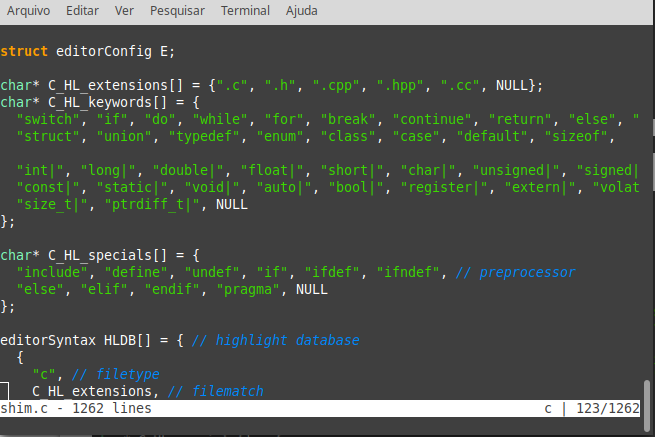
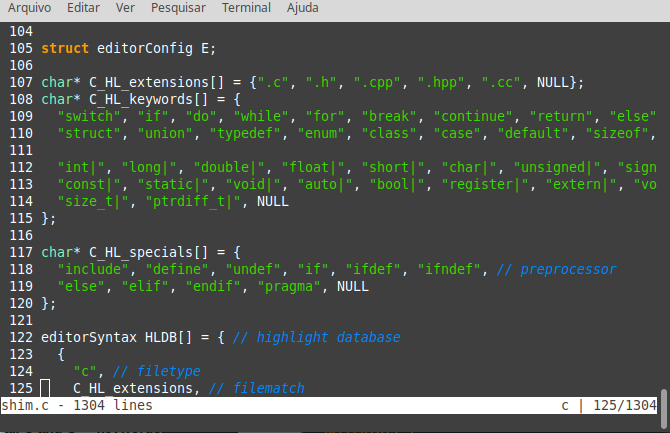
Add line numbers

Changed region(s): [[0.0, 0.0, 1.0, 1.0]]

diff --git a/shim.c b/shim.c
@@ -92,6 +92,7 @@ struct editorConfig {
   int screenrows;     // screen height
   int screencols;     // screen width
   int numrows;        // number of rows in the source file
+  int row_num_offset;
   E_ROW* row;
   int dirty;          // tell if a text buffer has been modified
   char* filename;
@@ -539,6 +540,16 @@ void editorSelectSyntaxHighlight() {
   }
 }
 
+int ndigits(int num) {
+  int d = 0;
+  
+  do {
+    ++d;
+  } while(num /= 10);
+  
+  return d; 
+}
+
 int editorRowCxtoRx(E_ROW* row, int cx) {
   // convert a chars index into a render index
   int j, rx = 0;
@@ -596,6 +607,12 @@ void editorUpdateRow(E_ROW* row) {
   editorUpdateSyntax(row);
 }
 
+void editorUpdateRowOffset() {
+  //E.screencols += (E.row_num_offset + 1);
+  E.row_num_offset = ndigits(E.numrows);
+  //E.screencols -= (E.row_num_offset + 1);
+}
+
 void editorInsertRow(int at, char* s, size_t len) { 
   if(at < 0 || at > E.numrows) return;
 
@@ -617,6 +634,7 @@ void editorInsertRow(int at, char* s, size_t len) {
   editorUpdateRow(&E.row[at]);
 
   E.numrows++;
+  editorUpdateRowOffset();
   E.dirty++;
 }
 
@@ -633,6 +651,7 @@ void editorDelRow(int at) {
   memmove(&E.row[at], &E.row[at + 1], sizeof(E_ROW) * (E.numrows - at - 1));
   for(int j = at; j < E.numrows - 1; j++) E.row[j].idx--;
   E.numrows--;
+  editorUpdateRowOffset();
   E.dirty++;
 }
 
@@ -750,7 +769,8 @@ void editorOpen(const char* filename) {
       linelen--;
     }
     editorInsertRow(E.numrows, line, linelen);
-  } 
+  }
+  editorUpdateRowOffset();
   free(line); fclose(fp);
   E.dirty = 0;
 }
@@ -1054,6 +1074,9 @@ void editorScroll() {
   if(E.render_x >= E.coloff + E.screencols) {
     E.coloff = E.render_x - E.screencols + 1;
   }
+  /*if(E.render_x >= E.coloff - E.row_num_offset + E.screencols) {
+    E.coloff = E.render_x - E.screencols + E.row_num_offset + 1;
+  }*/
 }
 
 void editorDrawRows(A_BUF* ab) {
@@ -1081,10 +1104,14 @@ void editorDrawRows(A_BUF* ab) {
       }
     } else {
       // drawing a row that is part of the text buffer
+      char linenum[32];
+      int lnlen = snprintf(linenum, sizeof(linenum), "%*d ", E.row_num_offset, filerow + 1);
+      abAppend(ab, linenum, lnlen);
+      
       // subtract the number of characters that are to the left of the offset
       int j, len = E.row[filerow].rsize - E.coloff;
       if(len < 0) len = 0; // scrolled horizontally past the end of the line
-      if(len > E.screencols) len = E.screencols; // truncate the line
+      if(len > (E.screencols - E.row_num_offset + 1)) len = E.screencols - E.row_num_offset - 1; // truncate the line
 
       char* c = &E.row[filerow].render[E.coloff]; // get the render array
       unsigned char* hl = &E.row[filerow].hl[E.coloff]; // get the highlight array
@@ -1210,7 +1237,7 @@ void editorRefreshScreen() {
   // point curr_x and curr_y back to its position on the screen
   // update the cursor position
   snprintf(buffer, sizeof(buffer), "\x1b[%d;%dH", (E.curr_y - E.rowoff) + 1, 
-                                                  (E.render_x - E.coloff) + 1);
+                                                  (E.render_x - E.coloff + E.row_num_offset + 1) + 1);
   abAppend(&ab, buffer, strlen(buffer));  
 
   // escape sequence to show/set(h) the cursor after refreshing the screen 
@@ -1235,8 +1262,9 @@ void updateWindowSize() {
 
 void handleSigWinCh(int sig) {
   updateWindowSize();
-  if(E.curr_y > E.screenrows) E.curr_y = E.screenrows - 1;
-  if(E.curr_x > E.screencols) E.curr_x = E.screencols - 1;
+  if(E.curr_y > E.screenrows + E.rowoff - 1) E.curr_y = E.screenrows + E.rowoff - 1;
+  if(E.curr_x > (E.screencols + E.coloff - (E.row_num_offset + 1) - 1)) 
+    E.curr_x = E.screencols + E.coloff - (E.row_num_offset + 1) - 1;
   editorRefreshScreen();
 }
 
@@ -1251,6 +1279,7 @@ void initEditor() {
   E.statusmsg[0] = '\0';
   E.statusmsg_time = 0;
   E.syntax = NULL;
+  E.row_num_offset = 0;
   
   updateWindowSize();
   signal(SIGWINCH, handleSigWinCh);
